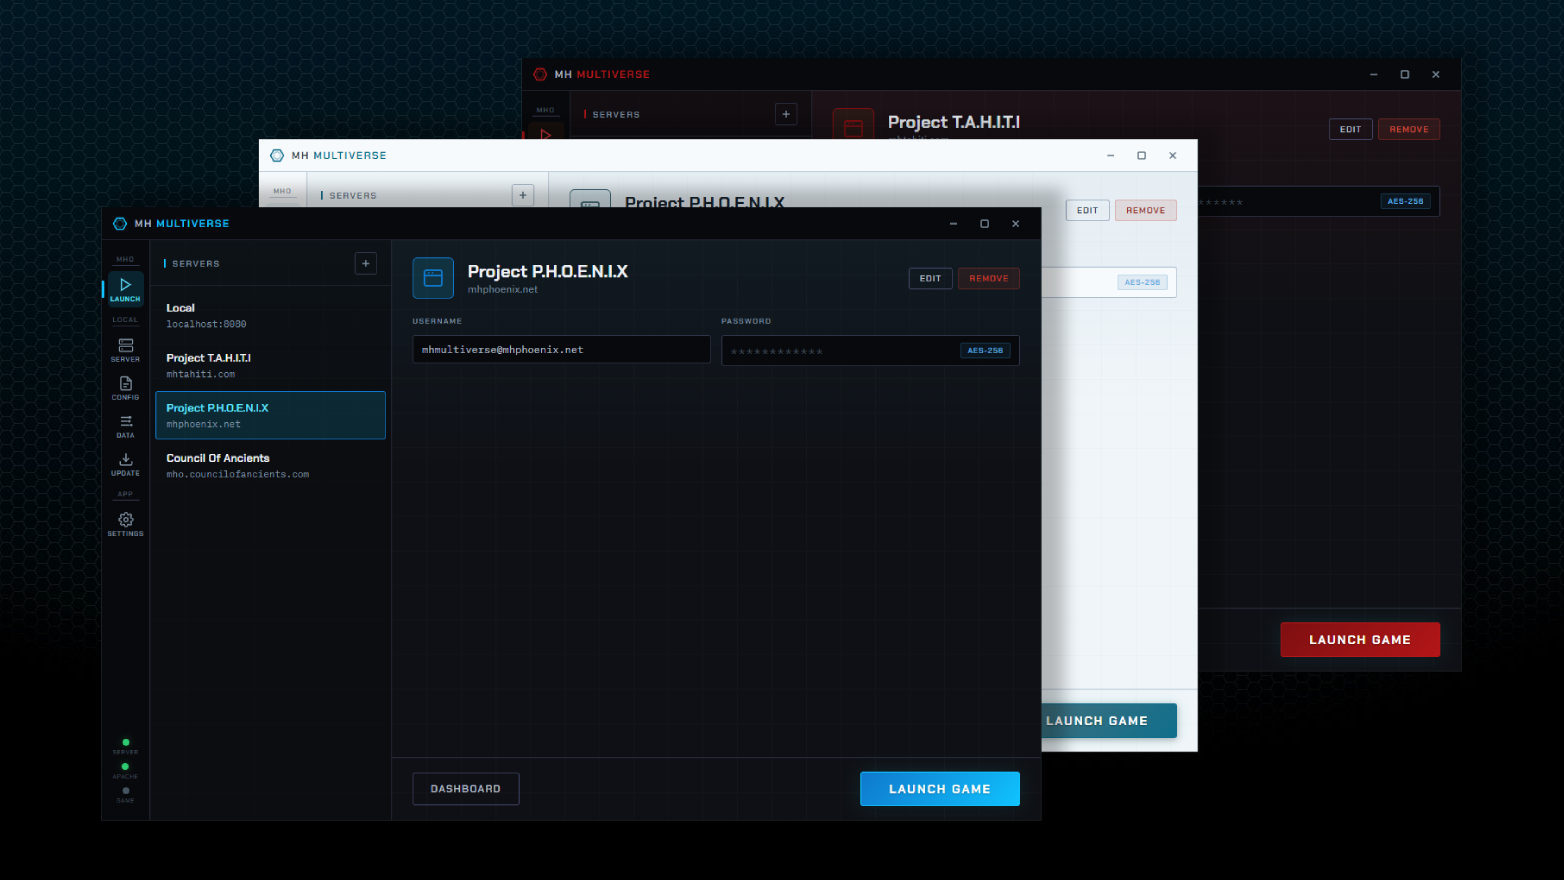
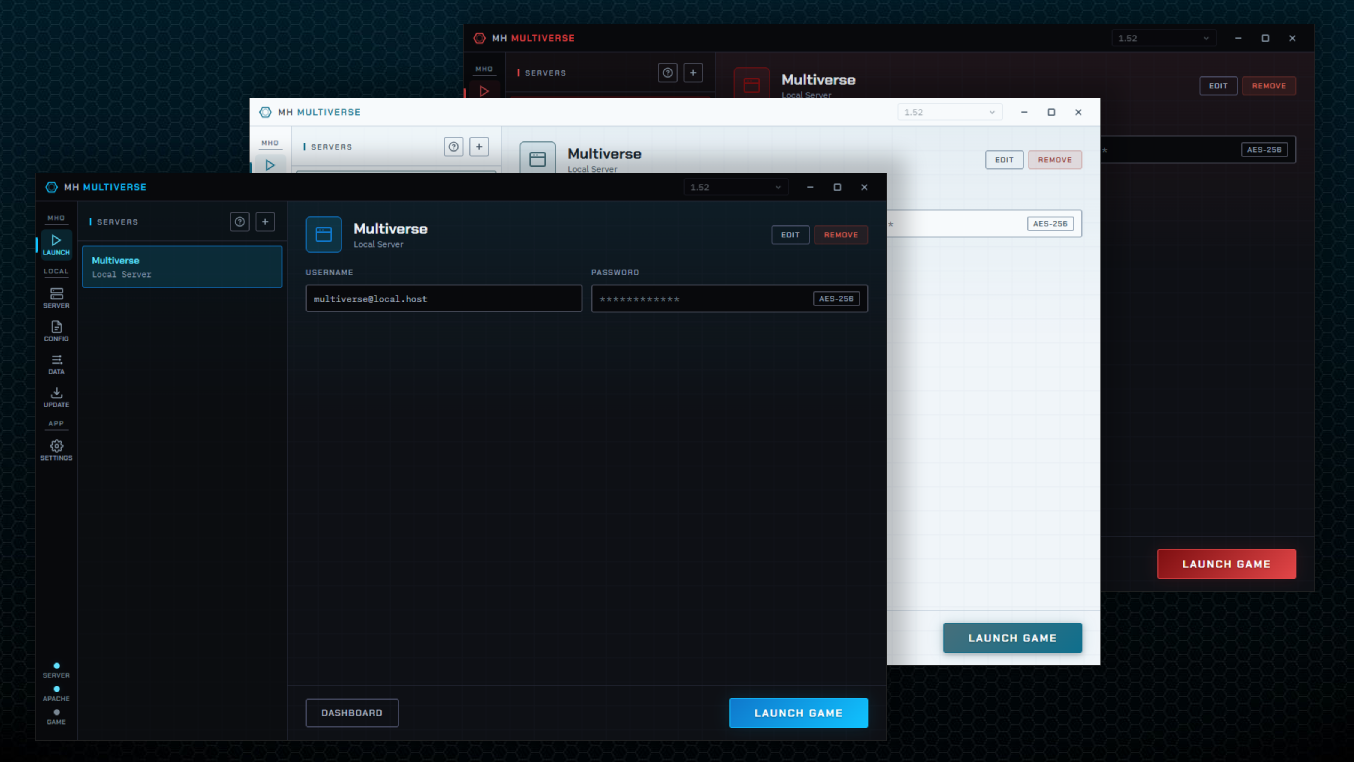
Replace the README screenshots with new 1.7.0 pictures

diff --git a/README.md b/README.md
@@ -43,8 +43,10 @@ The app is currently Windows-only and communicates with the server via stdin/std
 - MarvelHeroes Overlay: link and trust your copy, optionally inject on launch, toggle its flags, and view the loot-filter log from within Multiverse
 - Import existing profiles from Bifrost and the Overlay
 
+---
+
 ![Theme Showcase](./docs/images/theme-showcase.png)
-![Server Showcase](./docs/images/server-showcase.png)
+![Server Showcase](./docs/images/readme-four.png)
 
 ---
 
